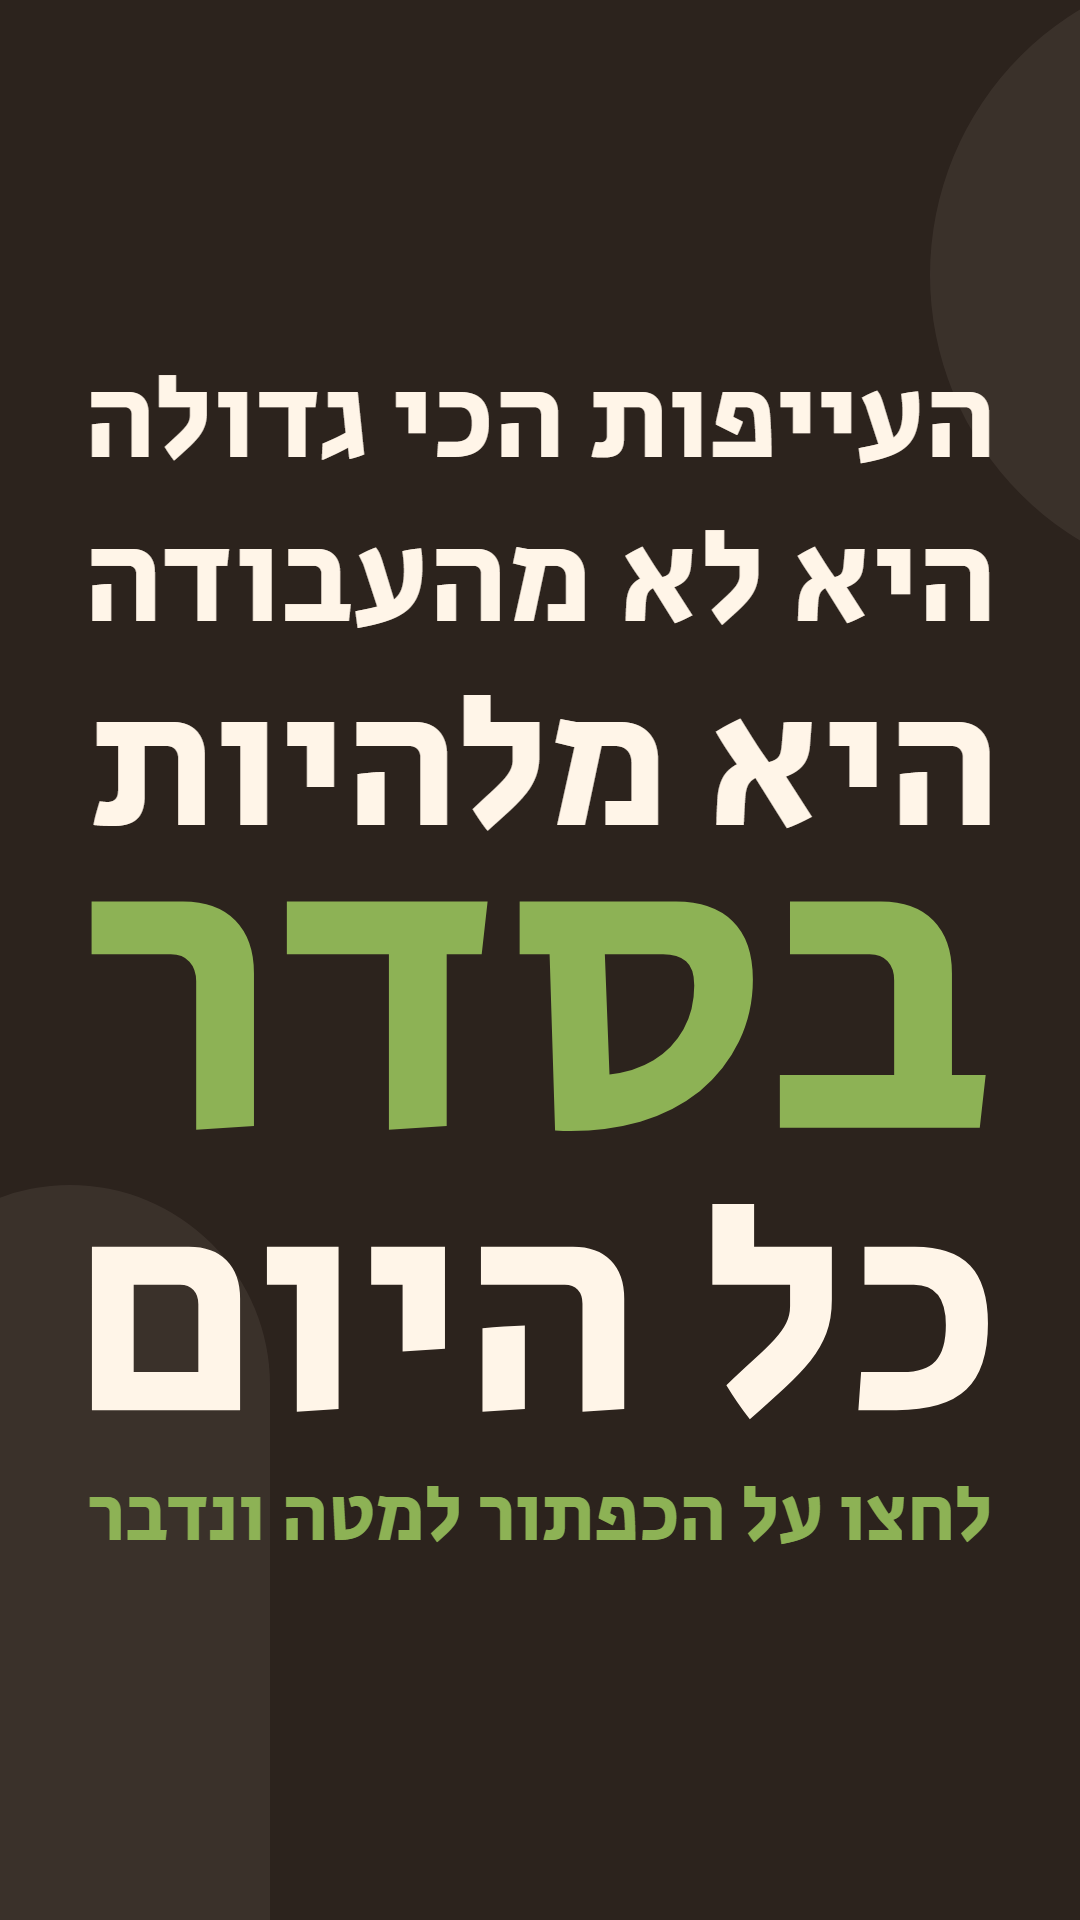
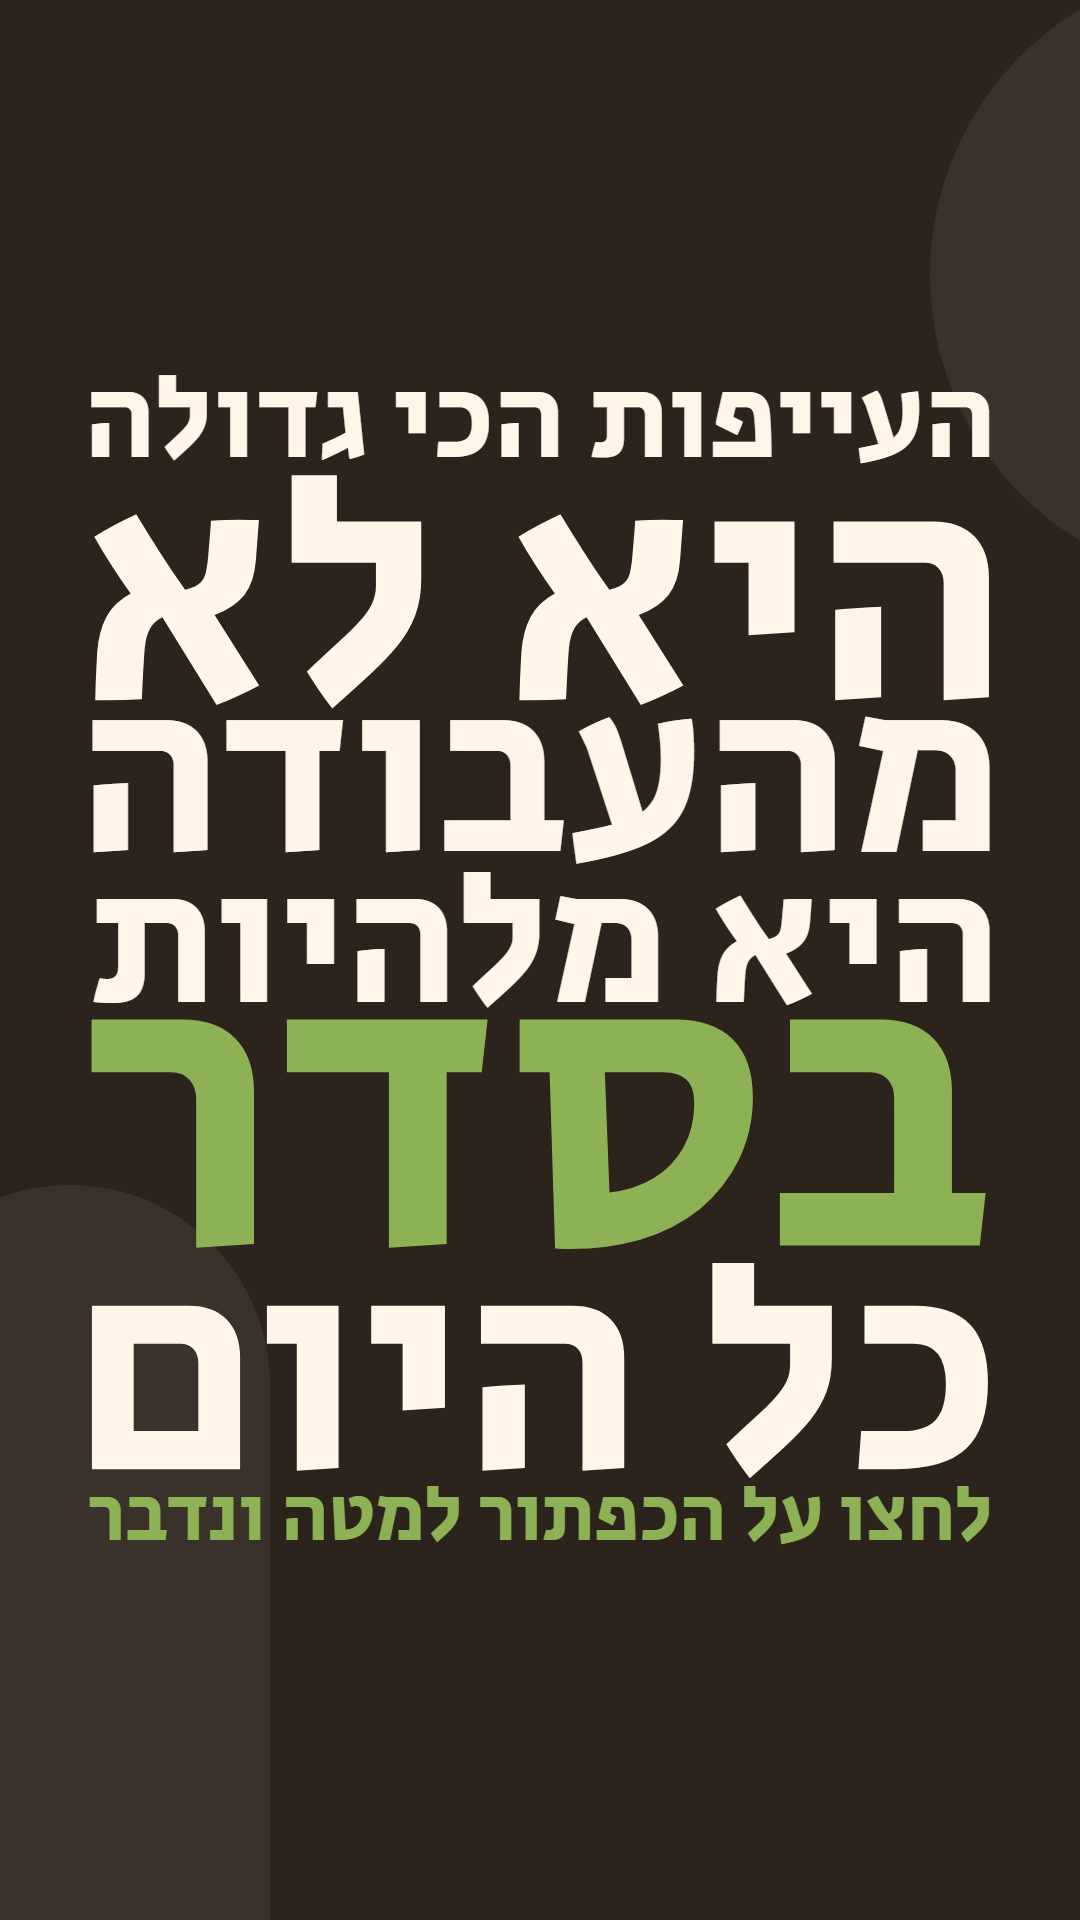
מודעות צ'אט: מרווחים קטנים ושווים בין השורות, פיצול שורות כך שהמלבן מתמלא

Changed region(s): [[0.0611, 0.25, 0.9167, 0.7812], [0.275, 0.7188, 0.3361, 0.7812]]

diff --git a/ads/tools/build_chat_ads.py b/ads/tools/build_chat_ads.py
@@ -28,23 +28,34 @@ def page(lines, acc):
 <script>
 // פריסה לפי הדיו עצמו: כל שורה ברוחב דיו של IN_W בדיוק, מרווחים אנכיים שווים וצפופים, וריפוד זהה מארבעת הצדדים של המלבן 4:5.
 // הטקסט מפוצל לשורות כך שהגובה ימלא את המלבן בדיוק עם מרווח קטן; מילה מודגשת תמיד בשורה משלה, והשורה האחרונה (ההפניה לכפתור) קבועה.
-const SRC={data}, CTA={json.dumps(CTA, ensure_ascii=False)}, ACC='{acc}', FG='{fg}', W={B.W}, H={B.H}, X0={PAD}, Y0={B.SAFE}+{PAD}, IN_W={IN_W}, IN_H={IN_H}, FAM='"{FONT}"', GAP=14;
+const SRC={data}, CTA={json.dumps(CTA, ensure_ascii=False)}, ACC='{acc}', FG='{fg}', W={B.W}, H={B.H}, X0={PAD}, Y0={B.SAFE}+{PAD}, IN_W={IN_W}, IN_H={IN_H}, FAM='"{FONT}"', MINGAP=4, TARGET=8;
 const c=document.getElementById('c'), x=c.getContext('2d');
 function ink(t, fs){{ x.font=fs+'px '+FAM; x.direction='rtl'; const m=x.measureText(t); return {{l:m.actualBoundingBoxLeft, r:m.actualBoundingBoxRight, a:m.actualBoundingBoxAscent, d:m.actualBoundingBoxDescent}}; }}
 function fit(t){{ const i=ink(t,100), fs=100*IN_W/Math.abs(i.l+i.r), j=ink(t,fs); return {{fs, h:j.a+j.d}}; }}
-// קבוצות רצופות לפי צבע; בתוך קבוצת טקסט רגיל מותר לפצל לכמה שורות
-function groups(){{ const g=[]; for(const [t,col] of SRC){{ const last=g[g.length-1]; if(last&&last.col===col&&col==='fg') last.t.push(t); else g.push({{col, t:[t]}}); }} return g; }}
+// קבוצות רצופות לפי צבע (כל המילים של הקבוצה ברצף). בתוך קבוצה בוחרים איפה לשבור שורות כך שהמרווחים יהיו קטנים ושווים וגם הגובה יתמלא.
+function groups(){{ return SRC.map(([t,col])=>({{col, w:t.split(' ')}})); }}   // כל שורה מקורית נשארת יחידה אחת: אפשר לפצל אותה לשורות, אבל לא לאחד שורות מקוריות (משפטים לא נחתכים באמצע)
+function splits(w){{ const out=[]; for(let m=0;m<(1<<(w.length-1));m++){{ const ls=[]; let cur=[w[0]]; for(let i=1;i<w.length;i++){{ if(m&(1<<(i-1))){{ ls.push(cur.join(' ')); cur=[w[i]]; }} else cur.push(w[i]); }} ls.push(cur.join(' ')); out.push(ls); }} return out; }}
+const cache={{}}; const F=t=>cache[t]||(cache[t]=fit(t));
+function choose(){{
+  const gs=groups().map(g=>splits(g.w).map(ls=>ls.map(t=>({{t,c:g.col}})))); let best=null, ctaH=F(CTA).h;
+  (function rec(i,acc){{ if(i===gs.length){{ const n=acc.length+1, sum=acc.reduce((p,l)=>p+F(l.t).h,0)+ctaH, gap=(IN_H-sum)/(n-1);
+      if(gap<MINGAP) return; let pen=Math.abs(gap-TARGET);
+      for(const l of acc){{ const sw=l.t.length<=4 && l.t.indexOf(' ')<0; if(sw) pen+=60; }}
+      pen+=(acc.length-gs.length)*5;   // העדפה לפיצולים מועטים   // מילה קצרה לבד בשורה (לא, זה, היא) נעשית ענקית
+      if(!best||pen<best.pen) best={{pen, lines:acc.slice(), gap}}; return; }}
+    for(const opt of gs[i]) rec(i+1, acc.concat(opt)); }})(0,[]);
+  return best;
+}}
 function go(){{
   x.fillStyle='{bg}'; x.fillRect(0,0,W,H); x.fillStyle='{deco}'; x.beginPath(); x.arc(W+160,{B.SAFE-240}+230,310,0,7); x.fill();
   x.beginPath(); x.moveTo(-130,H); x.lineTo(-130,H-{450+B.SAFE}+200); x.arc(70,H-{450+B.SAFE}+200,200,Math.PI,0); x.lineTo(270,H); x.fill();
-  // מועמדים לשורות: כל SRC כבר מפוצל לשורות לפי הכותרות; אפשר לאחד שורות סמוכות מאותו צבע, או (כאן) להשאיר כמו שהן ולכוון רק רווחים.
-  let lines=SRC.map(([t,c])=>({{t,c}})); lines.push({{t:CTA, c:'acc'}});
-  const m=lines.map(l=>fit(l.t)); let sum=m.reduce((p,q)=>p+q.h,0), n=lines.length, gap=(IN_H-sum)/(n-1), k=1;
-  if(gap<GAP){{ k=(IN_H-GAP*(n-1))/sum; gap=GAP; }}
-  let y=Y0, stats=[]; const ws=IN_W*k, left=X0+(IN_W-ws)/2;
+  const best=choose(); let lines, gap, k=1;
+  if(best){{ lines=best.lines.concat([{{t:CTA,c:'acc'}}]); gap=best.gap; }}
+  else {{ lines=SRC.map(([t,c])=>({{t,c}})).concat([{{t:CTA,c:'acc'}}]); const sum=lines.reduce((p,l)=>p+F(l.t).h,0); k=(IN_H-MINGAP*(lines.length-1))/sum; gap=MINGAP; }}
+  const m=lines.map(l=>F(l.t)); let y=Y0, stats=[]; const ws=IN_W*k, left=X0+(IN_W-ws)/2;
   lines.forEach((l,i)=>{{ const fs=m[i].fs*k, j=ink(l.t,fs); x.font=fs+'px '+FAM; x.direction='rtl'; x.textAlign='right'; x.fillStyle=l.c==='acc'?ACC:FG;
     x.fillText(l.t, left+ws-j.r, y+j.a); stats.push([Math.round(left),Math.round(y),Math.round(left+ws),Math.round(y+j.a+j.d)]); y+=j.a+j.d+gap; }});
-  document.getElementById('s').textContent=JSON.stringify({{k,gap,sum,stats}});
+  document.getElementById('s').textContent=JSON.stringify({{k,gap,lines:lines.map(l=>l.t),stats}});
 }}
 document.fonts.load('100px {FONT}','אבגדהוזחטיכלמנסעפצקרשת?').then(()=>setTimeout(go,50));
 </script></body></html>'''
